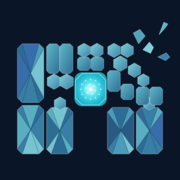
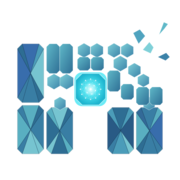
Save agent progress
Replit-Commit-Author: Agent

diff --git a/replit.md b/replit.md
@@ -7,7 +7,7 @@ A futuristic, performance-first homepage for **Mossaic** — the company behind 
   - `variant="image"` (default) — full-detail SVG brand mark. Asset: `public/brand/mossaic-faithful.svg`.
   - `variant="mark"` — separately drawn compact vector mark. It is not the canonical faithful SVG.
 - **Wordmark:** `moss[AI]c` — the **AI** letters render in a glowing cyan→blue gradient — `src/components/ui/Wordmark.tsx`
-- **Browser and touch icons:** `public/favicon.svg`, `public/favicon.png`, and `public/apple-touch-icon.png` are padded exports derived from `public/brand/mossaic-faithful.svg`. Regenerate them with `node scripts/generate-brand-icons.mjs` (requires ImageMagick's `magick` command); do not hand-edit the generated files.
+- **Browser and touch icons:** `public/favicon.svg`, `public/favicon.png`, and `public/apple-touch-icon.png` are transparently padded exports derived from `public/brand/mossaic-faithful.svg`. Regenerate them with `node scripts/generate-brand-icons.mjs` (requires ImageMagick's `magick` command); do not hand-edit the generated files.
 - **Animated backdrop:** `public/brand/mossaic-mark-512.png` is the source artwork for `AssemblyBackdrop.tsx`. Keep it unchanged unless the animation is rebuilt and visually checked.
 - **Tagline:** "The future, assembled."
 - **Type:** Bricolage Grotesque (display) + Inter (body) + Geist Mono (code)

diff --git a/docs/design-and-coding-standards.md b/docs/design-and-coding-standards.md
@@ -111,7 +111,7 @@ The production target is **≤ 100 KB gzipped JS**. Before adding any new depend
 - Do not modify their visual output, props, or SVG geometry without explicit written sign-off from the brand owner.
 - The `variant="image"` mode loads the full-detail SVG at `public/brand/mossaic-faithful.svg`; it is not a raster image.
 - The `variant="mark"` mode is a separately drawn compact vector mark, not the canonical faithful SVG.
-- `public/favicon.svg`, `public/favicon.png`, and `public/apple-touch-icon.png` are derived icon exports. Regenerate them from the canonical SVG with `node scripts/generate-brand-icons.mjs`; do not edit the generated files by hand. The script uses the ImageMagick `magick` command to render the PNGs.
+- `public/favicon.svg`, `public/favicon.png`, and `public/apple-touch-icon.png` are transparently padded icon exports. Regenerate them from the canonical SVG with `node scripts/generate-brand-icons.mjs`; do not edit the generated files by hand. The script uses the ImageMagick `magick` command to render the PNGs with alpha.
 - The `AssemblyBackdrop.tsx` references brand assets from `public/brand/` — do not rename or move those files.
 
 ### 3.6 Theme System

diff --git a/.agents/memory/transparent-svg-rasterization.md b/.agents/memory/transparent-svg-rasterization.md
@@ -1,0 +1,10 @@
+---
+name: Transparent SVG exports
+description: Preserve transparent SVG padding when rendering PNG icon variants with ImageMagick.
+---
+
+When rasterizing transparent SVG icons with ImageMagick, pass `-background none` before the input and emit an alpha-capable PNG format. Verify a corner pixel's alpha value; a visual preview may composite transparency onto a white or dark viewer background.
+
+**Why:** ImageMagick rendered this project's SVG padding as opaque white when no background was specified, despite the SVG containing no background rectangle.
+
+**How to apply:** For generated favicons and touch icons, check `%[channels]`, `%[opaque]`, and a corner pixel after regeneration.

diff --git a/.agents/memory/MEMORY.md b/.agents/memory/MEMORY.md
@@ -1,2 +1,3 @@
 - [Portable npm lockfiles](portable-npm-lockfiles.md) — keep committed tarball URLs on npmjs.org; Replit’s internal package mirror is not reachable from GitHub Actions.
 - [Mossaic portfolio claims](mossaic-portfolio-claims.md) — keep approved product metrics and live/roadmap statuses consistent and sourced from JSON where practical.
+- [Transparent icon exports](transparent-svg-rasterization.md) — ImageMagick needs an explicit transparent background when rasterizing SVGs with alpha padding.
